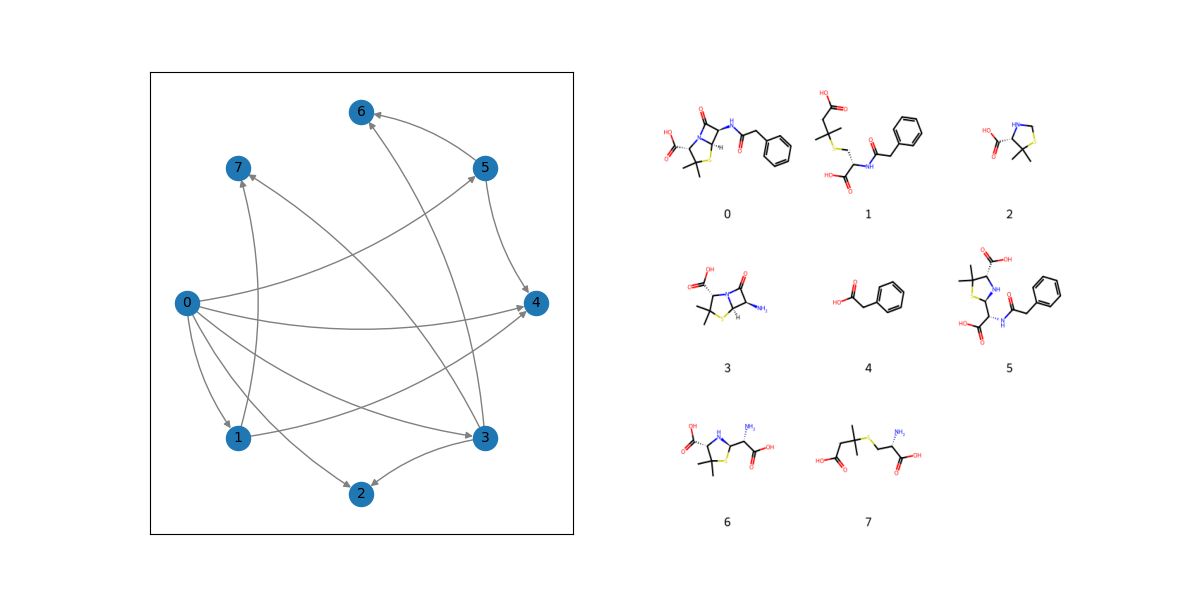
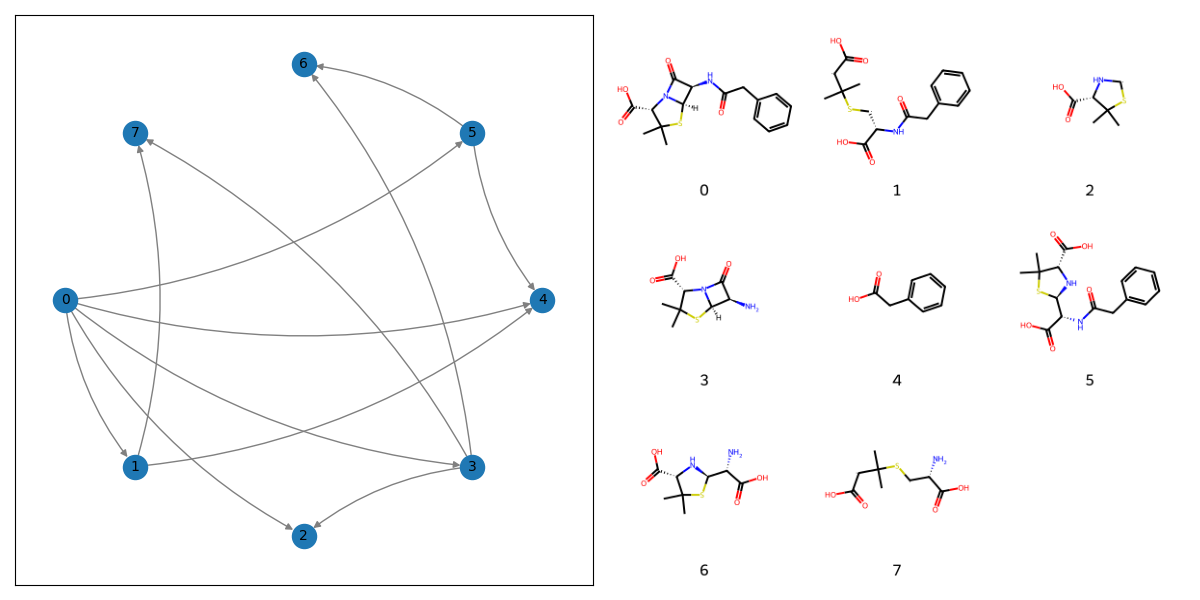
Changed to tight layout

diff --git a/src/chem_deg/degradation.py b/src/chem_deg/degradation.py
@@ -49,6 +49,7 @@ def draw_degradation_graph(graph: nx.MultiDiGraph, filename: str = None) -> plt.
     ax2.axis("off")
 
     # Save the figure
+    fig.tight_layout()
     if filename:
         fig.savefig(filename)
 

diff --git a/src/chem_deg/kinetics/graph.py b/src/chem_deg/kinetics/graph.py
@@ -54,6 +54,7 @@ def draw_kinetics_graph(df: pd.DataFrame, ph: int |  str, filename: str = None) 
     ax2.axis("off")
 
     # Save the figure
+    fig.tight_layout()
     if filename:
         fig.savefig(filename)
 
